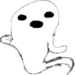
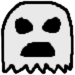
added enemy healthbars and changed ghost sprite

diff --git a/src/Entity/Enemy.java b/src/Entity/Enemy.java
@@ -2,6 +2,8 @@ package Entity;
 
 import Main.RandomGenerator;
 import Player.Player;
+
+import java.awt.*;
 import java.util.ArrayList;
 
 public abstract class Enemy extends Entity {
@@ -89,5 +91,15 @@ public abstract class Enemy extends Entity {
     public boolean getAlive() { return alive;}
     public void checkAlive() { if (health <= 0) alive = false; }
 
-    public void draw(java.awt.Graphics2D g, int x, int y) { super.draw(g, x, y, (int)room_x, (int)room_y); }
+    public void draw(java.awt.Graphics2D g, int x, int y) {
+        super.draw(g, x, y, (int)room_x, (int)room_y); // draw self
+    }
+
+    // draw health bar
+    public void drawHealth(java.awt.Graphics2D g, int px, int py, int x, int y) {
+        g.setColor(new Color(170, 27, 27));
+        g.fillRect(512-px+(x - (int)(width*0.75)/2), 384-py+(y - height/2)+height, (int)(width*0.75), 5); // red
+        g.setColor(new Color(0, 169, 0));
+        g.fillRect(512-px+(x - (int)(width*0.75)/2), 384-py+(y - height/2)+height, (int) ((width*0.75) * (health / maxHealth)), 5); // green
+    }
 }

diff --git a/src/Entity/Enemies/Ghost.java b/src/Entity/Enemies/Ghost.java
@@ -6,6 +6,7 @@ import Images.ImageLoader;
 import Player.Player;
 
 import javax.imageio.ImageIO;
+import java.awt.*;
 
 public class Ghost extends Enemy {
 
@@ -28,6 +29,10 @@ public class Ghost extends Enemy {
 
     public void shoot(Player player) {}
 
+    public void draw(java.awt.Graphics2D g, int x, int y) {
+        super.draw(g, x, y, (int)room_x, (int)room_y);
+        drawHealth(g, x, y, (int)room_x, (int)room_y);
+    }
 
-    public void draw(java.awt.Graphics2D g, int x, int y) { super.draw(g, x, y, (int)room_x, (int)room_y); }
+    public void drawHealth(java.awt.Graphics2D g, int px, int py, int x, int y) { super.drawHealth(g, px, py, x, y); }
 }
